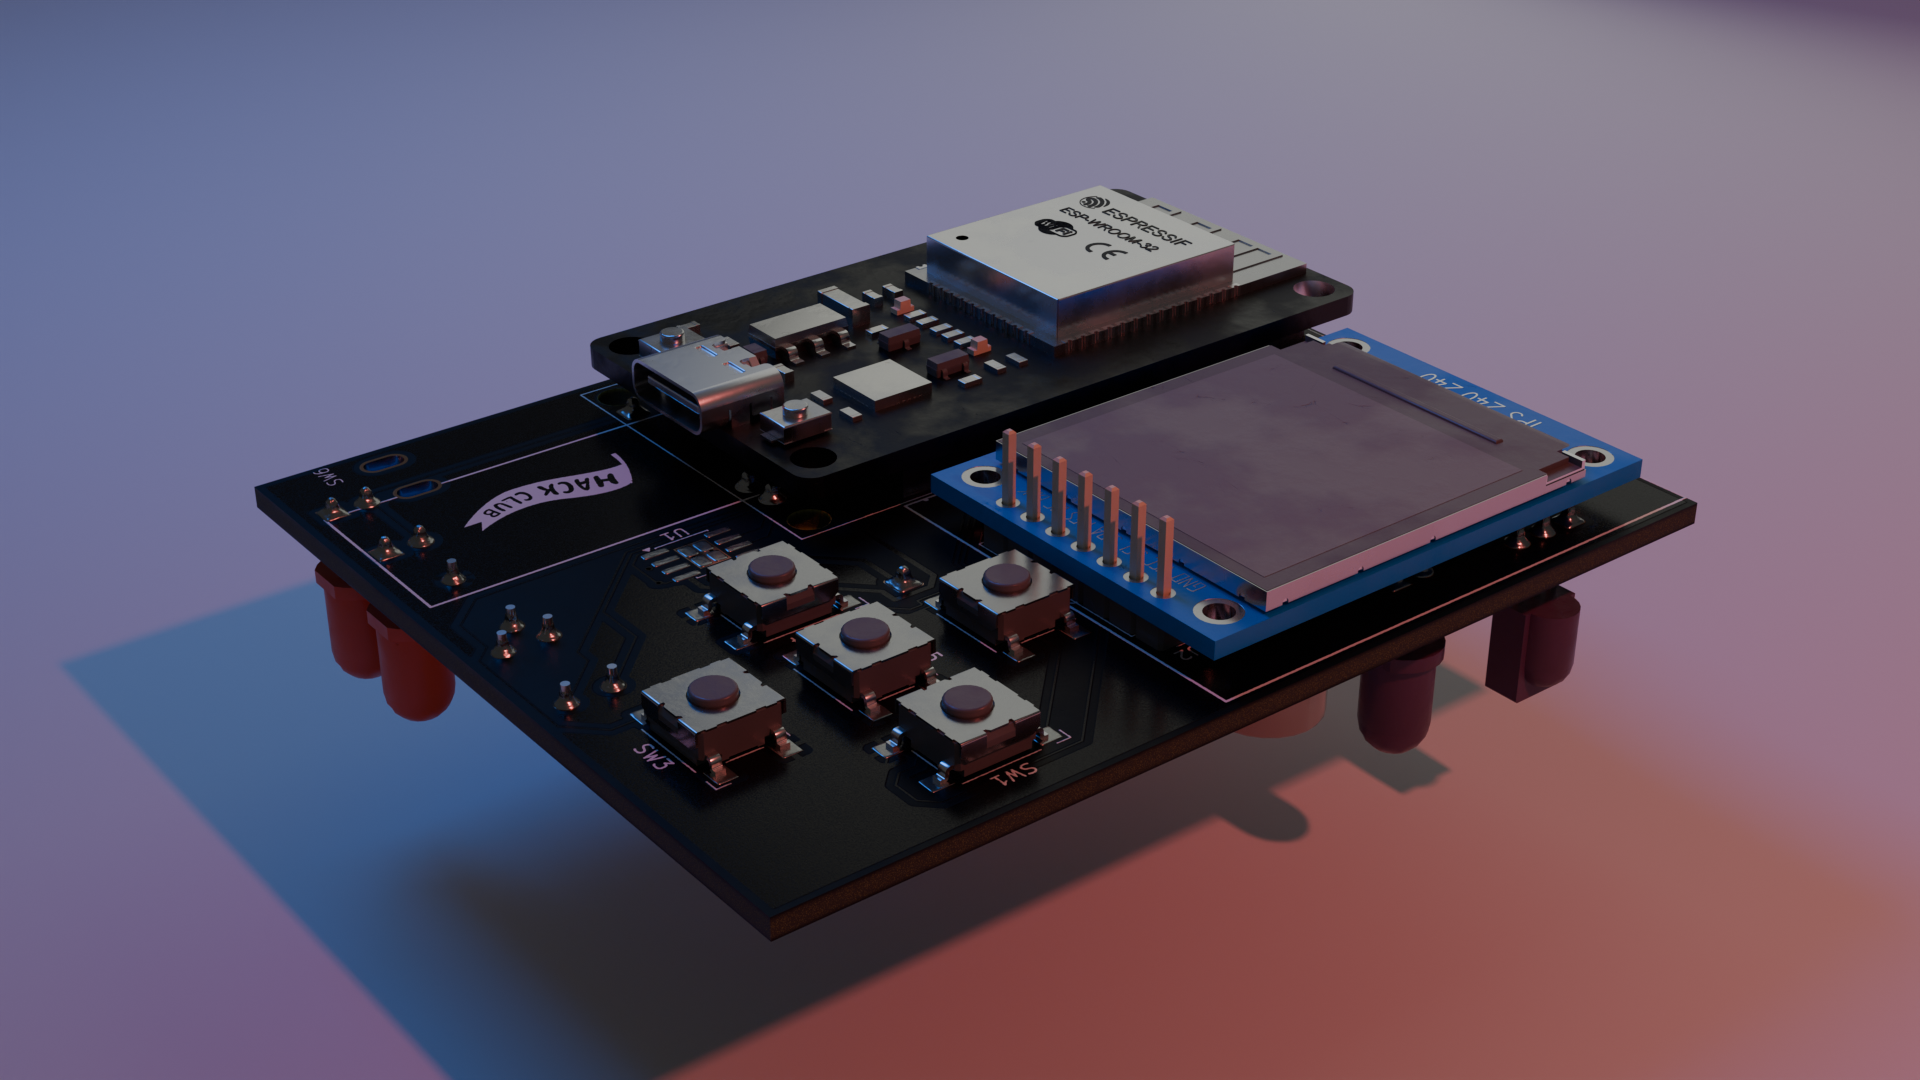
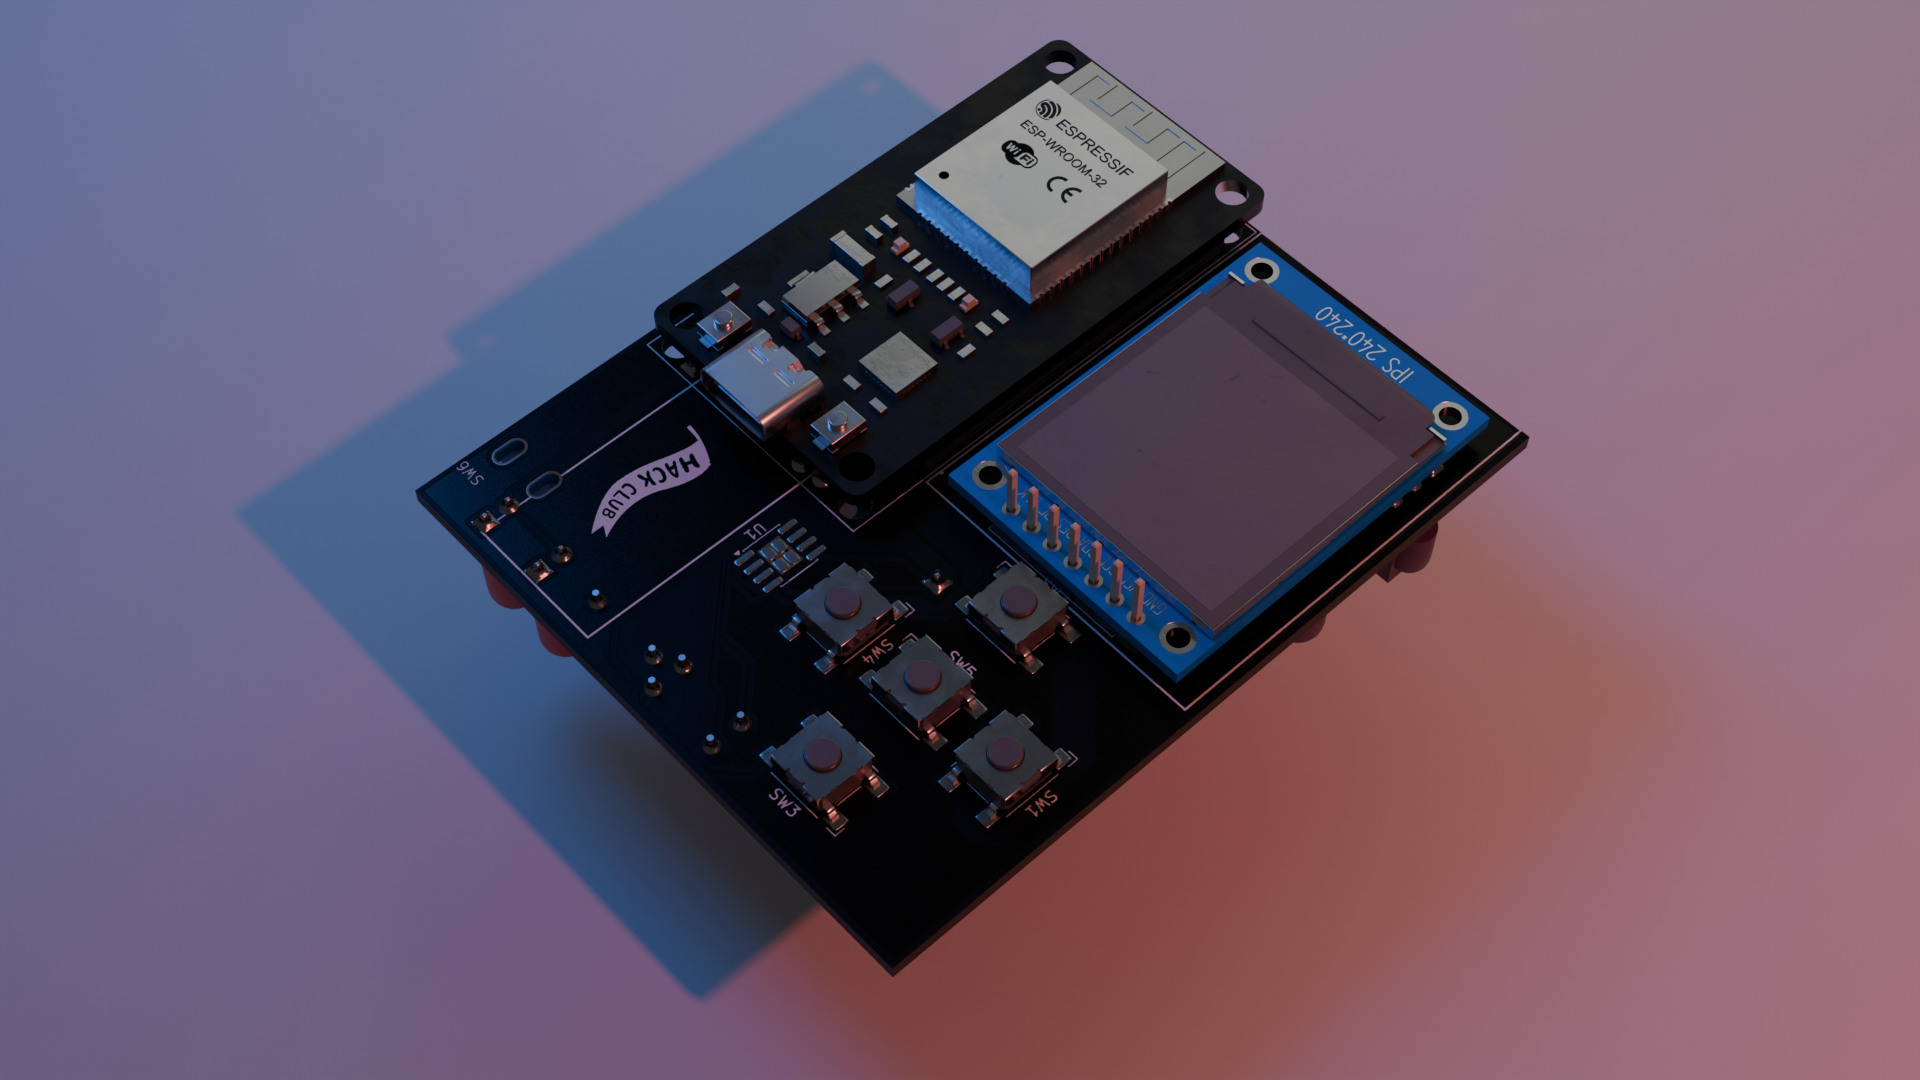
br1

diff --git a/README.md b/README.md
@@ -2,7 +2,7 @@
 
 <img src="CAD/br1.png">
 
-<img src="CAD/br2.png">
+<!-- <img src="CAD/br2.png"> -->
 
 <table width="100%">
     <tr>
